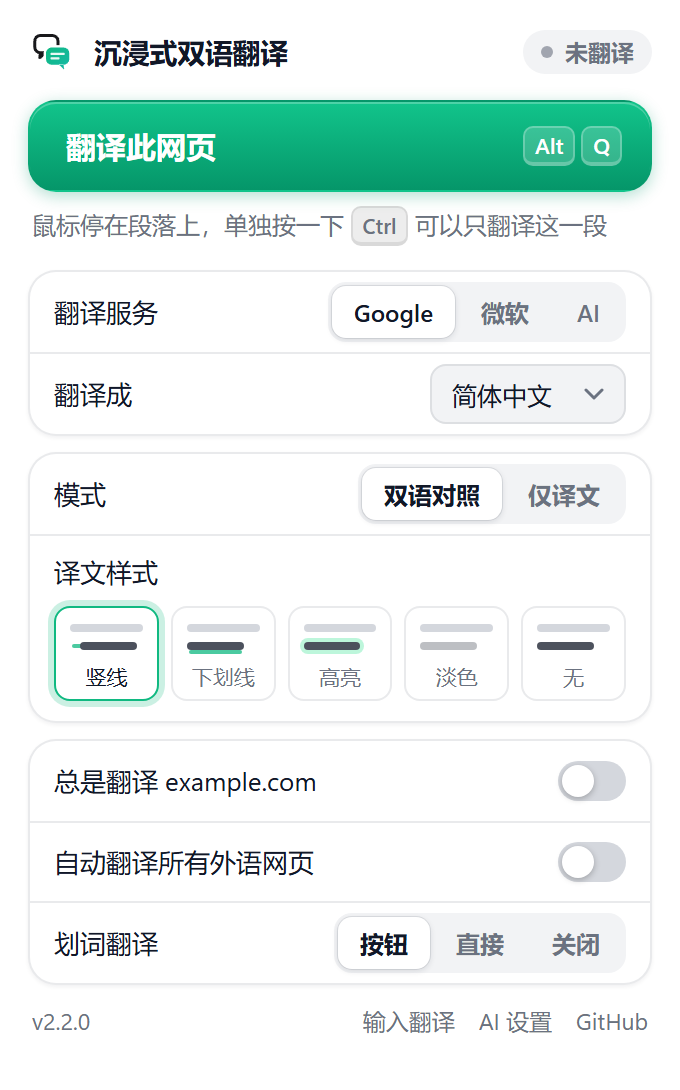
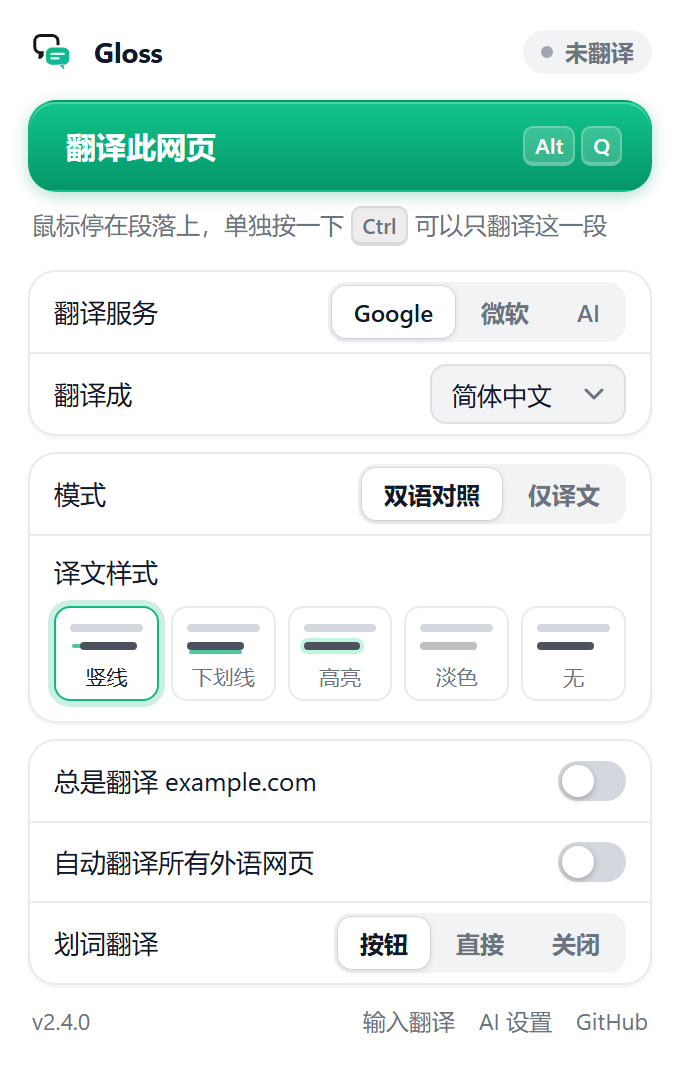
feat: v2.4.0 改名为 Gloss
原名「沉浸式双语翻译」与竞品「沉浸式翻译」太像，同时安装时容易混淆。
Gloss 取自语言学的 interlinear gloss（行间注释），即在原文下逐行写译文。

- 插件名、弹窗、欢迎页、设置页、工具栏提示改为 Gloss
- README 说明名字由来；更新弹窗、欢迎页、设置页截图
- 产品复盘补充命名决策；路线图顺延
- GitHub 仓库改名为 sovven/gloss

Changed region(s): [[0.1235, 0.0312, 0.4324, 0.0624]]

diff --git a/welcome.html b/welcome.html
@@ -2,7 +2,7 @@
 <html lang="zh-CN">
 <head>
   <meta charset="utf-8" />
-  <title>欢迎使用沉浸式双语翻译</title>
+  <title>欢迎使用 Gloss</title>
   <link rel="stylesheet" href="ui.css" />
   <style>
     body { background: var(--page); padding: 64px 20px 72px; }
@@ -48,7 +48,7 @@
 <main>
   <section class="hero">
     <img src="icons/icon128.png" alt="" />
-    <h1>欢迎使用沉浸式双语翻译</h1>
+    <h1>欢迎使用 Gloss</h1>
     <p>在原文下方显示译文，像读母语一样读外文网页。<br />不用注册，打开网页就能用。</p>
   </section>
 
@@ -56,7 +56,7 @@
     <div class="card step">
       <div class="num">1</div>
       <h3>把图标固定到工具栏</h3>
-      <p>点浏览器右上角的拼图图标 🧩，找到「沉浸式双语翻译」，点旁边的 📌。以后在工具栏上就能一键打开设置。</p>
+      <p>点浏览器右上角的拼图图标 🧩，找到「Gloss」，点旁边的 📌。以后在工具栏上就能一键打开设置。</p>
     </div>
     <div class="card step">
       <div class="num">2</div>
@@ -88,7 +88,7 @@
     · 已经打开的网页需要先刷新一次，插件才能生效。
   </section>
 
-  <footer>开源免费 · 不收集任何数据 · <a href="https://github.com/sovven/immersive-translator" target="_blank">GitHub</a></footer>
+  <footer>开源免费 · 不收集任何数据 · <a href="https://github.com/sovven/gloss" target="_blank">GitHub</a></footer>
 </main>
 <script src="welcome.js"></script>
 </body>

diff --git a/popup.html b/popup.html
@@ -57,7 +57,7 @@
 </head>
 <body>
   <div class="top">
-    <div class="brand"><img src="icons/icon48.png" alt="" />沉浸式双语翻译</div>
+    <div class="brand"><img src="icons/icon48.png" alt="" />Gloss</div>
     <span class="status" id="status">未翻译</span>
   </div>
 
@@ -137,7 +137,7 @@
 
   <div class="foot">
     <span id="version"></span>
-    <nav><a href="#" id="quickToggle">输入翻译</a><a href="#" data-options>AI 设置</a><a href="https://github.com/sovven/immersive-translator" target="_blank">GitHub</a></nav>
+    <nav><a href="#" id="quickToggle">输入翻译</a><a href="#" data-options>AI 设置</a><a href="https://github.com/sovven/gloss" target="_blank">GitHub</a></nav>
   </div>
 
   <script src="popup.js"></script>

diff --git a/background.js b/background.js
@@ -101,7 +101,7 @@ async function setTab(tabId, on) {
   }
   await chrome.storage.session.set({ ["tab_" + tabId]: on });
   // 工具栏图标上显示 ON 角标，一眼看出这个网页开着翻译
-  badge(tabId, on ? "ON" : "", "#059669", on ? "沉浸式双语翻译：已翻译（Alt+Q 显示原文）" : "沉浸式双语翻译 (Alt+Q)");
+  badge(tabId, on ? "ON" : "", "#059669", on ? "Gloss：已翻译（Alt+Q 显示原文）" : "Gloss (Alt+Q)");
   return true;
 }
 chrome.tabs.onRemoved.addListener((tabId) => chrome.storage.session.remove("tab_" + tabId));

diff --git a/options.html b/options.html
@@ -2,7 +2,7 @@
 <html lang="zh-CN">
 <head>
   <meta charset="utf-8" />
-  <title>AI 翻译设置</title>
+  <title>Gloss · AI 翻译设置</title>
   <link rel="stylesheet" href="ui.css" />
   <style>
     body { background: var(--page); padding: 48px 20px 64px; }

diff --git a/content.js b/content.js
@@ -1,4 +1,4 @@
-// 网页内：整页双语翻译（仿沉浸式翻译）、悬停 Ctrl 翻译单段、划词翻译
+// Gloss 网页内脚本：整页双语对照、悬停 Ctrl 翻译单段、划词翻译
 
 (() => {
   if (window.__hcTranslatorLoaded) return;

diff --git a/docs/PRODUCT.md b/docs/PRODUCT.md
@@ -1,4 +1,4 @@
-# 产品复盘
+# Gloss 产品复盘
 
 > 每次迭代前，以产品经理的视角把整个产品重新走一遍：用户是谁、用来干什么、哪里卡住了、下一步做什么。
 
@@ -39,6 +39,14 @@
 2. **陪读蛙**是开源的直接对手，主打学语言（生词本、记忆卡片）。我们**不做学习工具**，专注"读懂网页"
 3. **DeepL** 和 **Chrome 自带翻译**都是整页替换，没有双语对照
 4. Chrome 已经内置了**设备端翻译模型**（Translator API）：免费、离线、文字不出本机。目前还很少有双语插件用它，**很适合我们"隐私、轻量"的定位**
+
+### 命名
+
+原名「沉浸式双语翻译」和竞品「沉浸式翻译」只差两个字，用户同时装着两个插件时自己都会搞混（快捷键冲突就是这么发现的）。v2.4.0 改名为 **Gloss**：
+
+- 来自语言学的 *interlinear gloss*（行间注释），也就是在原文下面逐行写译文，正好是插件在做的事
+- 一个音节，短、好记，和任何翻译插件都不像
+- Chrome 应用商店里已经有一个同名的小插件（悬停查词，按月收费）。目前插件只是自己用、在 GitHub 开源，暂不处理；**以后要上架时，需要改成 Gloss Reader 之类的名字来区分**
 
 ### 定位结论
 
@@ -107,11 +115,12 @@
 | 版本 | 内容 | 对应问题 |
 |---|---|---|
 | v2.2.0 ✅ | 欢迎页、自动切换到微软翻译、工具栏角标、全新 UI、样式预览、划词气泡重做 | P1–P7 |
-| **v2.3.0 ✅** | 只翻译正文：跳过导航、频道名、短链接、代码；YouTube 专门规则；解除标题行数限制 | P13–P17 |
-| v2.4.0 | 🔒 **Chrome 设备端翻译**（离线、免费、不出本机）、某个网站永不翻译 | 定位 · P8 |
-| v2.5.0 | 🎬 YouTube 双语字幕 | P11 |
-| v2.6.0 | AI 用量统计、可以改 Ctrl 单段翻译的按键 | P9 · P10 |
-| 以后 | 上架 Chrome 应用商店 | P12 |
+| v2.3.0 ✅ | 只翻译正文：跳过导航、频道名、短链接、代码；YouTube 专门规则；解除标题行数限制 | P13–P17 |
+| **v2.4.0 ✅** | ✏ 改名为 Gloss | 命名 |
+| v2.5.0 | 🔒 **Chrome 设备端翻译**（离线、免费、不出本机）、某个网站永不翻译 | 定位 · P8 |
+| v2.6.0 | 🎬 YouTube 双语字幕 | P11 |
+| v2.7.0 | AI 用量统计、可以改 Ctrl 单段翻译的按键 | P9 · P10 |
+| 以后 | 上架 Chrome 应用商店（届时改名 Gloss Reader 避免重名） | P12 |
 
 **明确不做**：PDF 和电子书翻译、生词本和学习工具、账号和会员体系。
 

diff --git a/README.md b/README.md
@@ -2,13 +2,13 @@
 
 <img src="docs/logo.png" width="112" alt="logo" />
 
-# 沉浸式双语翻译
+# Gloss
 
 **在原文下方显示译文，像读母语一样读外文网页**
 
-一个开源、免费、无需注册的 Chrome 双语翻译插件
+一个开源、免费、无需注册的 Chrome 双语对照阅读插件
 
-[![Version](https://img.shields.io/badge/version-2.3.0-10b981?style=flat-square)](CHANGELOG.md)
+[![Version](https://img.shields.io/badge/version-2.4.0-10b981?style=flat-square)](CHANGELOG.md)
 [![Manifest V3](https://img.shields.io/badge/Chrome-Manifest%20V3-4285F4?style=flat-square&logo=googlechrome&logoColor=white)](https://developer.chrome.com/docs/extensions/develop/migrate/what-is-mv3)
 [![License: MIT](https://img.shields.io/badge/license-MIT-18181b?style=flat-square)](LICENSE)
 [![Zero dependencies](https://img.shields.io/badge/dependencies-0-10b981?style=flat-square)](#-项目结构)
@@ -22,6 +22,8 @@
 </div>
 
 <br />
+
+> **为什么叫 Gloss？** 在语言学里，*interlinear gloss*（行间注释）指的是在原文每一行下面写上对应的译文——这正是这个插件做的事。
 
 ## ✨ 功能
 

diff --git a/CHANGELOG.md b/CHANGELOG.md
@@ -2,6 +2,12 @@
 
 版本号规则：大改动升第一位，新功能升第二位，修 bug 升第三位。每次发布都会同步修改 `manifest.json` 里的 `version`。
 
+## 2.4.0 — 2026-10-20
+
+### 改动
+- ✏ **插件改名为 Gloss**。原来的「沉浸式双语翻译」和竞品「沉浸式翻译」太像，同时装着两个插件时容易搞混。Gloss 来自语言学的 *interlinear gloss*（行间注释），也就是在原文下面逐行写译文
+- GitHub 仓库改名为 [sovven/gloss](https://github.com/sovven/gloss)，旧地址会自动跳转
+
 ## 2.3.0 — 2026-10-20
 
 在 YouTube 上和沉浸式翻译对比后，这一版专门提升复杂网站的可读性：**只翻译正文，不翻译界面**。详见[产品复盘](docs/PRODUCT.md)第 6 节。
